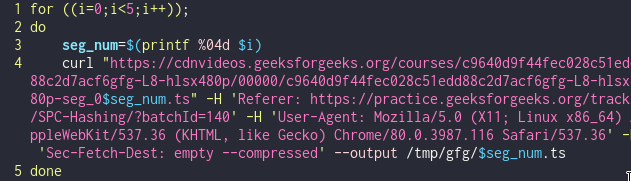
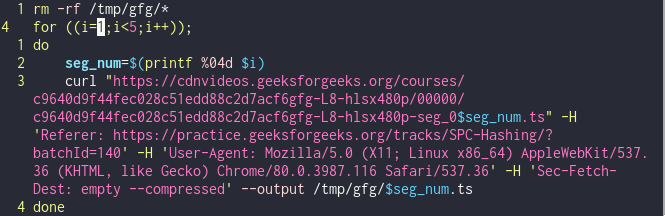
draft

Changed region(s): [[0.0, 0.0, 1.0, 1.0]]

diff --git a/pages/2020/bash/index.vue b/pages/2020/bash/index.vue
@@ -75,9 +75,42 @@
       </div>
       <div>
         First we need to download all the segments for that we can incorporate a
-        simple for loop which will keep on increasing the segment number
+        simple for loop which will keep on increasing the segment number, this will download only the first 5 segments
         <img-viewer src="/bash_gfg.jpg"></img-viewer>
-        <div style="display:flex;justify-content:center;"></div>
+        <div>
+          The
+          <code>%04d</code> just adds padding to the segment number because of the url pattern. These are only the segments of that original video, but we need the video in one single piece.
+        </div>
+        <img-viewer src="/curl_stream_op.jpg"></img-viewer>
+        <div>
+          To recreate this video in one single piece we will use two of the most commonly used programs found in unix and unix-like systems
+          <a
+            href="https://en.wikipedia.org/wiki/Xargs"
+            target="_blank"
+            rel="noopener noreferrer"
+          >xargs</a> which is used to literally build commands and
+          <a
+            href="https://en.wikipedia.org/wiki/Cat_(Unix)"
+            target="_blank"
+            rel="noopener noreferrer"
+          >cat</a> which stands for concatenate meaning to link together.
+          <p>
+            We can use as simple as
+            <img-viewer src="/bash_cat.jpg"></img-viewer>The
+            <code>cat</code> just combines the content of files together for eg. if we do
+            <code>cat 1.txt 2.txt</code> on a term it will just display the concatenated output with content of both the text files. In the same way we are using
+            <code>cat</code> in this case to combine the video streams but the difference is it will not display the content on the terminal but redirect the output to create a new file named video.mp4 which will be the final video.
+          </p>
+        </div>
+        <p>
+          The full script is available
+          <a
+            href="https://gist.github.com/tanuj101/e4411d718cd1b9e2df34ddf90f3e0a72"
+            target="_blank"
+            rel="noopener noreferrer"
+          >here</a>. You can modify this script to take in argument of the url directly, change the segment number to download all the segments, handle errors to stop running curl when 404s status code arrives. I'll leave all this to you.
+        </p>
+        <p>At last thank you for reading this, I'll keep posting such content in the future!</p>
       </div>
     </div>
   </div>

diff --git a/components/ImageViewer.vue b/components/ImageViewer.vue
@@ -19,6 +19,8 @@ export default {
 <style scoped>
 .viewer-container {
   position: fixed;
+  overflow: scroll;
+  height: 100%;
   height: 100%;
   width: auto;
   top: 0;
@@ -26,6 +28,7 @@ export default {
   background-color: rgba(0, 0, 0, 0.5);
   left: 0;
   right: 0;
+  z-index: 2;
 }
 .expand-img {
   display: none;
@@ -47,12 +50,6 @@ export default {
   width: 100%;
   height: auto;
 }
-/* img {
-  width: 150px;
-  border-radius: 2px;
-  box-shadow: 1px 1px 3px 1px rgba(0, 0, 0, 0.5);
-  transition: width 1s;
-} */
 img:hover {
   cursor: pointer;
 }

diff --git a/layouts/default.vue b/layouts/default.vue
@@ -107,7 +107,7 @@ li a {
   justify-content: center;
   margin-top: 12px;
   font-weight: 600;
-  font-family: "Cormorant";
+  font-family: "Cormorant" !important;
   font-size: 2rem;
 }
 .logo:hover {
